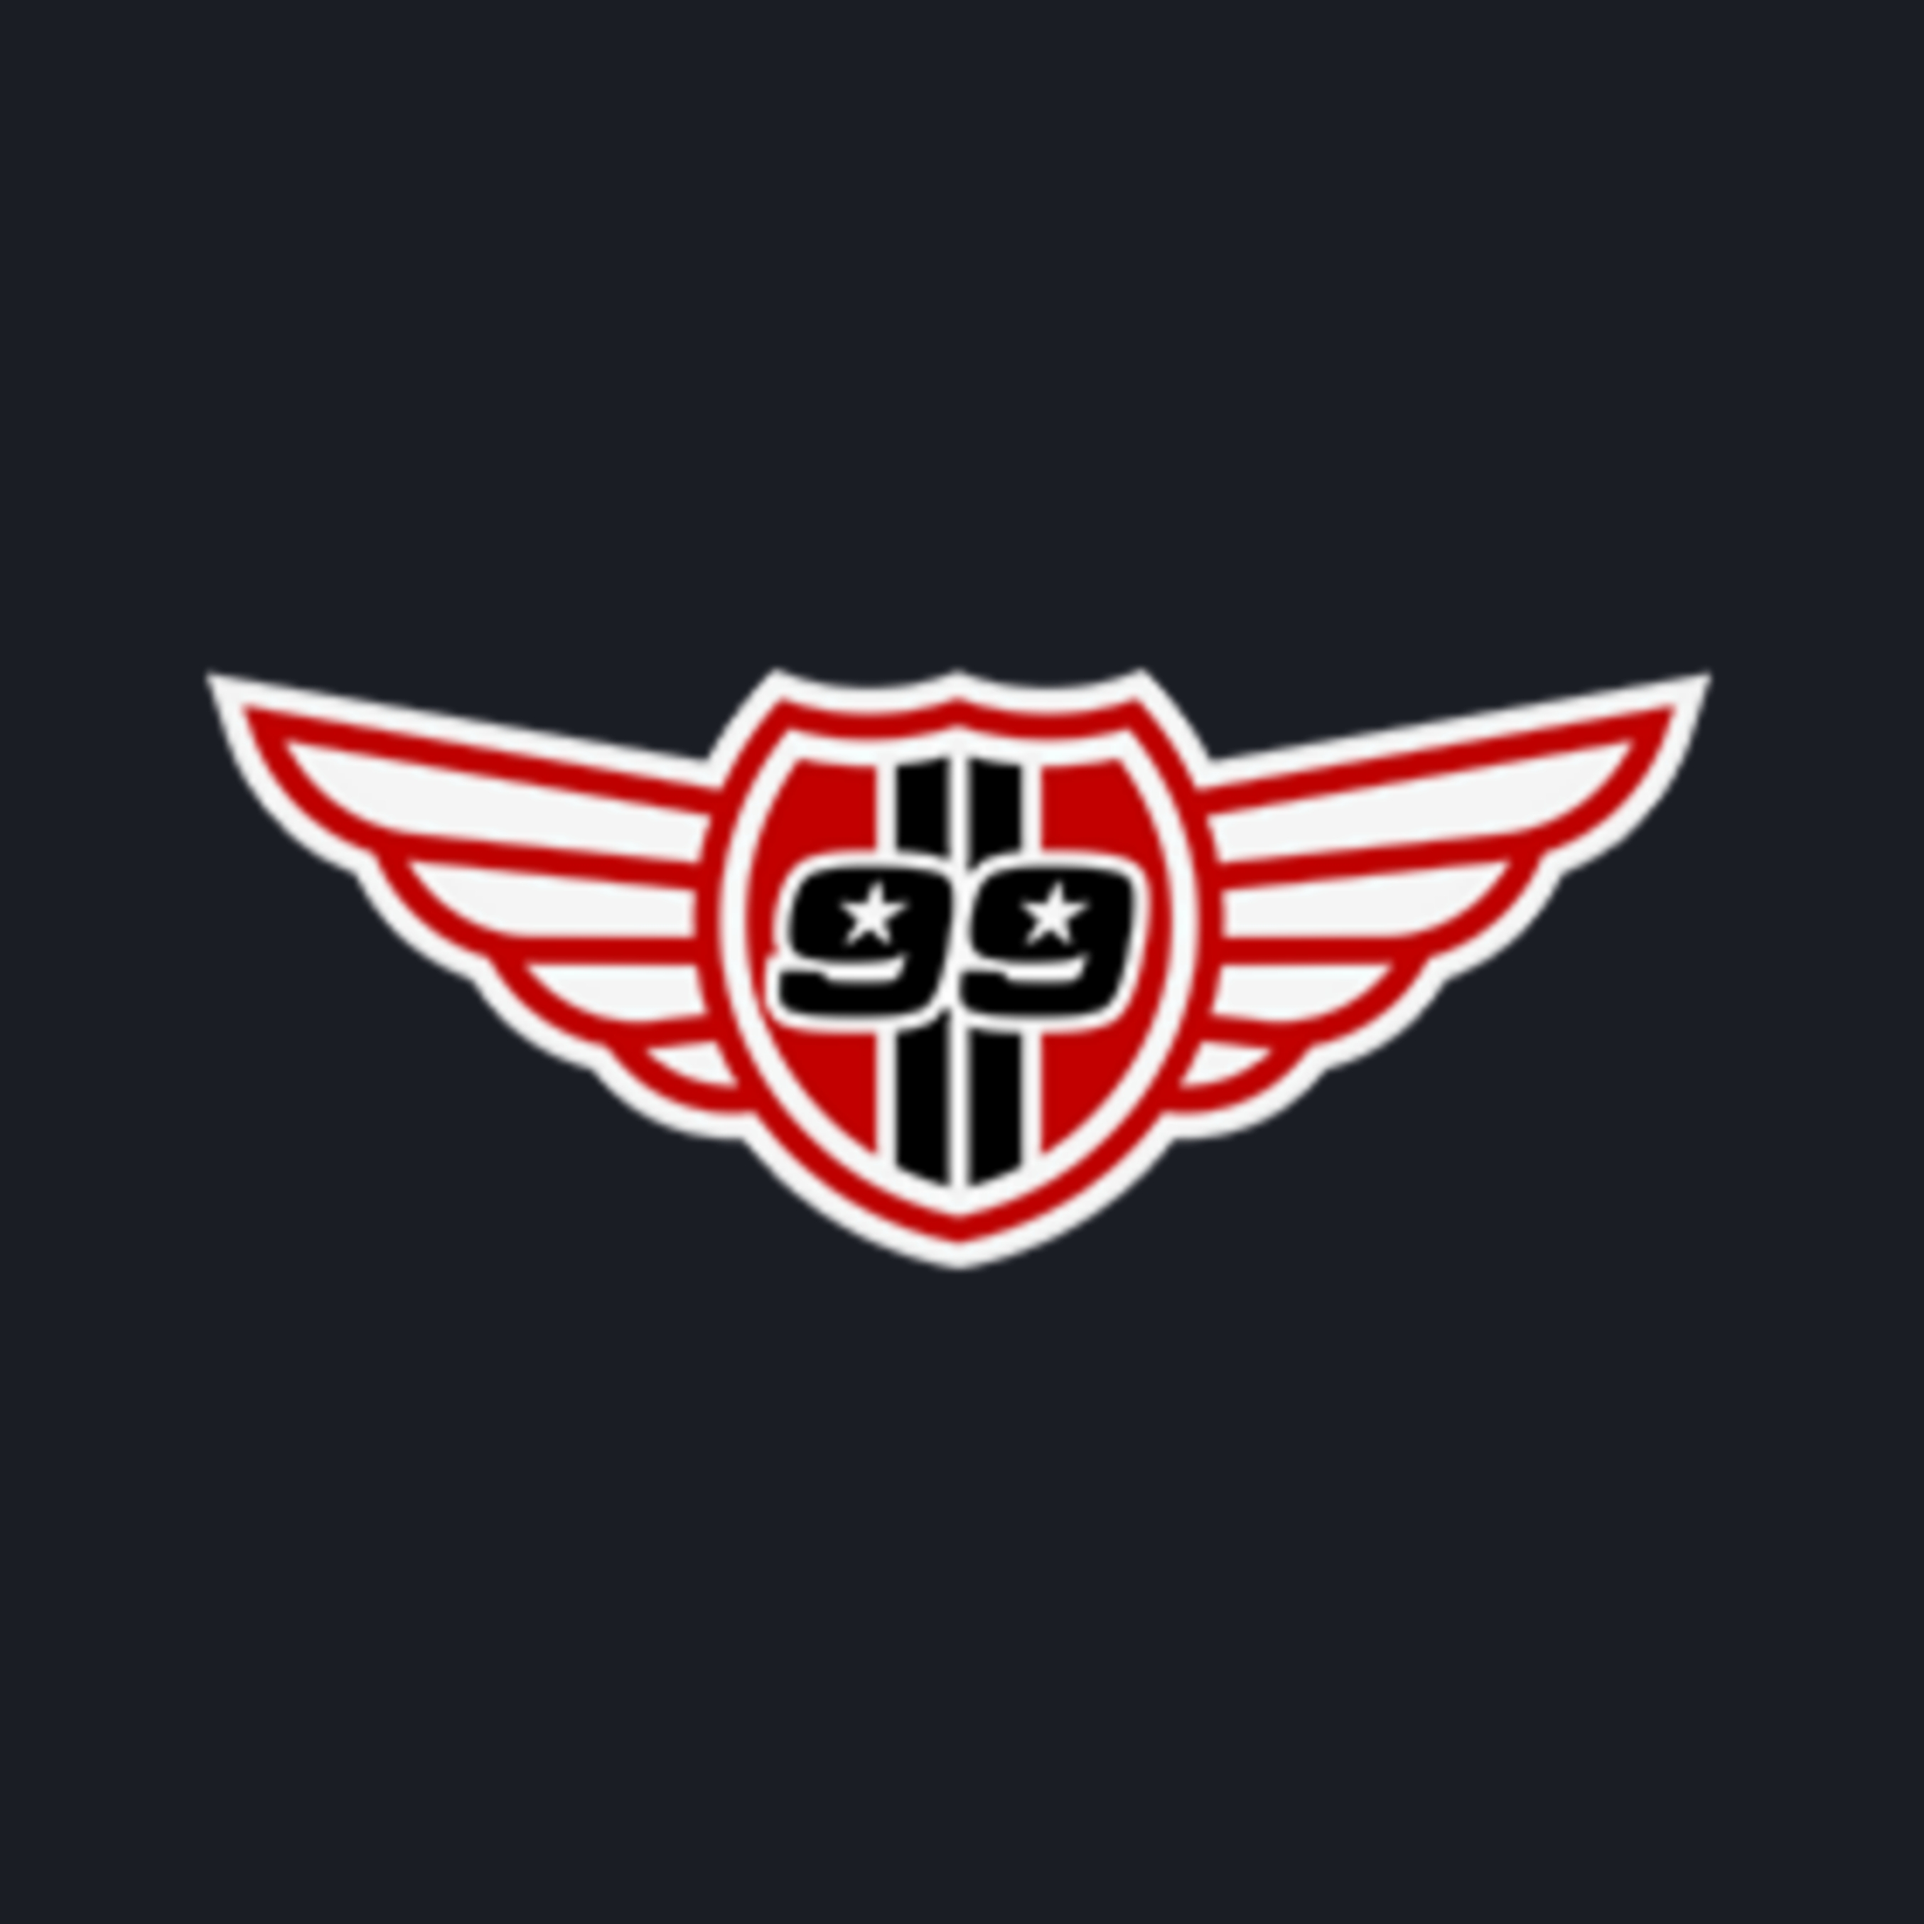
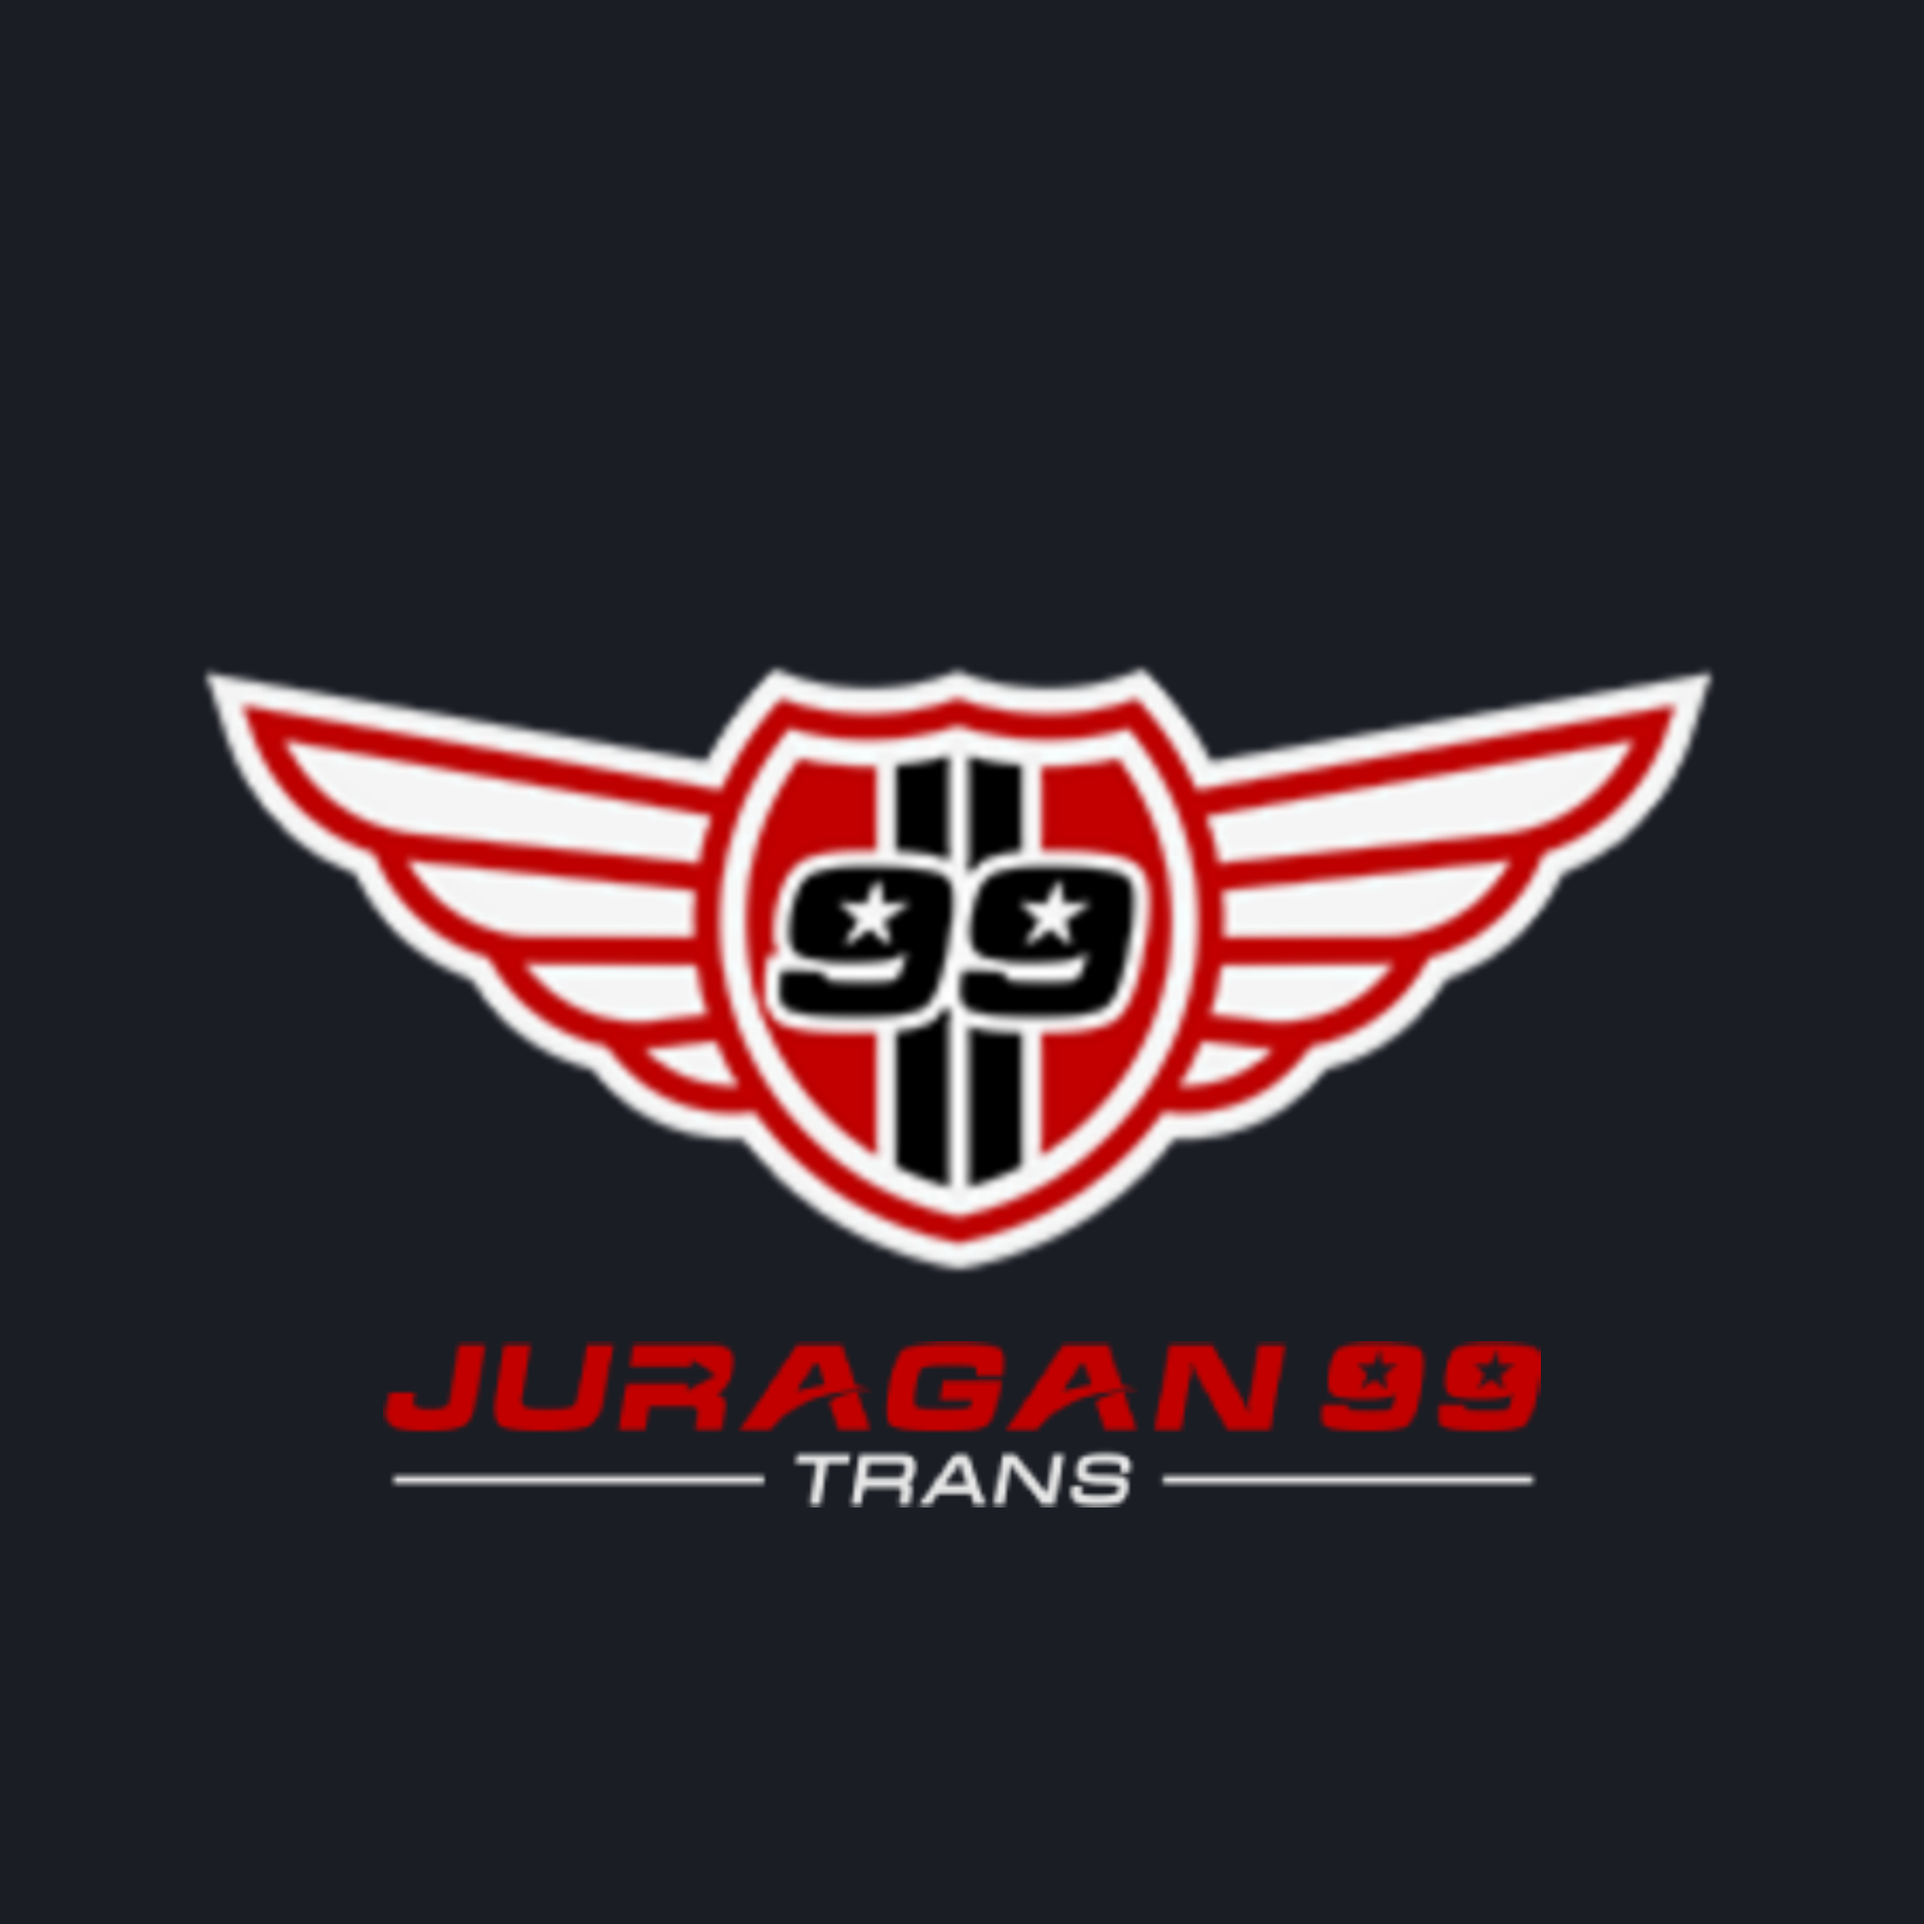
s

Changed region(s): [[0.1862, 0.6827, 0.8068, 0.8068]]

diff --git a/lib/screens/payment_status_screen.dart b/lib/screens/payment_status_screen.dart
@@ -231,28 +231,13 @@ class _PaymentStatusScreen extends State<PaymentStatusScreen> {
                         children: [
                           Column(
                             crossAxisAlignment: CrossAxisAlignment.start,
+                            mainAxisAlignment: MainAxisAlignment.start,
                             children: [
-                              _dataTicketPassanggerLeft(
+                              _dataTicketPassangger(
                                   "No. Tiket: ", ticket.ticket_number),
-                              _dataTicketPassanggerLeft("Nama: ", ticket.name),
-                              _dataTicketPassanggerLeft("Kelas: ", ticket.type),
-                              _dataTicketPassanggerLeft(
-                                  "Keberangkatan: ", ticket.drop_trip_location),
+                              _dataTicketPassangger("Nama: ", ticket.name),
                             ],
                           ),
-                          Column(
-                            crossAxisAlignment: CrossAxisAlignment.end,
-                            children: [
-                              _dataTicketPassanggerRight(
-                                  "No. Kursi: ", ticket.seat_number),
-                              _dataTicketPassanggerRight(
-                                  "Bagasi: ", ticket.baggage),
-                              _dataTicketPassanggerRight(
-                                  "Makanan: ", ticket.food_name),
-                              _dataTicketPassanggerRight(
-                                  "Tujuan", ticket.drop_trip_location),
-                            ],
-                          )
                         ],
                       ),
                     );
@@ -287,46 +272,16 @@ class _PaymentStatusScreen extends State<PaymentStatusScreen> {
     );
   }
 
-  _dataTicketPassanggerLeft(String title, String value) {
+  _dataTicketPassangger(String title, String value) {
     return Padding(
       padding: const EdgeInsets.only(bottom: 5),
-      child: Column(
+      child: Row(
         crossAxisAlignment: CrossAxisAlignment.start,
         children: [
           Text(
             title,
             style: TextStyle(
                 color: Colors.black, fontSize: Dimensions.defaultTextSize),
-          ),
-          Row(
-            mainAxisAlignment: MainAxisAlignment.start,
-            children: [
-              Text(
-                value,
-                style: TextStyle(
-                    color: Colors.black,
-                    fontSize: Dimensions.defaultTextSize,
-                    fontWeight: FontWeight.bold),
-              ),
-            ],
-          ),
-        ],
-      ),
-    );
-  }
-
-  _dataTicketPassanggerRight(String title, String value) {
-    return Padding(
-      padding: const EdgeInsets.only(bottom: 5),
-      child: Column(
-        crossAxisAlignment: CrossAxisAlignment.end,
-        children: [
-          Text(
-            title,
-            style: TextStyle(
-              color: Colors.black,
-              fontSize: Dimensions.defaultTextSize,
-            ),
           ),
           Row(
             mainAxisAlignment: MainAxisAlignment.start,

diff --git a/lib/screens/dashboard/search_ticket_screen.dart b/lib/screens/dashboard/search_ticket_screen.dart
@@ -171,7 +171,9 @@ class _SearchTicketScreenState extends State<SearchTicketScreen> {
                       ? "Belum Dibayar"
                       : (payment_status == "1")
                           ? "Sudah Dibayar"
-                          : "Gagal",
+                          : (payment_status == "2")
+                              ? "Gagal"
+                              : "",
                   style: TextStyle(
                       color: (payment_status == "0")
                           ? CustomColor.darkGrey
@@ -226,31 +228,33 @@ class _SearchTicketScreenState extends State<SearchTicketScreen> {
             ),
             Row(
               children: [
-                GestureDetector(
-                  child: Container(
-                    alignment: Alignment.center,
-                    width: 60,
-                    height: 30,
-                    decoration: BoxDecoration(
-                        color: CustomColor.red,
-                        borderRadius: BorderRadius.circular(6)),
-                    child: Text(
-                      "Cek Tiket",
-                      style: TextStyle(
-                          color: CustomColor.white,
-                          fontSize: Dimensions.smallTextSize),
-                    ),
-                  ),
-                  onTap: () {
-                    Navigator.of(context).push(
-                      MaterialPageRoute(
-                        builder: (context) => TicketResultScreen(
-                          booking_code: booking_code,
+                (payment_status == "2")
+                    ? Container(width: 60, height: 30)
+                    : GestureDetector(
+                        child: Container(
+                          alignment: Alignment.center,
+                          width: 60,
+                          height: 30,
+                          decoration: BoxDecoration(
+                              color: CustomColor.red,
+                              borderRadius: BorderRadius.circular(6)),
+                          child: Text(
+                            "Cek Tiket",
+                            style: TextStyle(
+                                color: CustomColor.white,
+                                fontSize: Dimensions.smallTextSize),
+                          ),
                         ),
-                      ),
-                    );
-                  },
-                )
+                        onTap: () {
+                          Navigator.of(context).push(
+                            MaterialPageRoute(
+                              builder: (context) => TicketResultScreen(
+                                booking_code: booking_code,
+                              ),
+                            ),
+                          );
+                        },
+                      )
               ],
             )
           ],

diff --git a/lib/screens/dashboard/pariwisata_screen.dart b/lib/screens/dashboard/pariwisata_screen.dart
@@ -222,7 +222,11 @@ class _PariwisataScreenState extends State<PariwisataScreen> {
                                     controller: keteranganController,
                                     decoration: InputDecoration(
                                       labelText: "Keterangan",
-                                      contentPadding: EdgeInsets.only(left: 10),
+                                      contentPadding: EdgeInsets.only(
+                                          left: 12,
+                                          top: 20,
+                                          right: 12,
+                                          bottom: 20),
                                       labelStyle: CustomStyle.textStyle,
                                       focusedBorder: CustomStyle.focusBorder,
                                       enabledBorder:

diff --git a/lib/screens/dashboard_screen.dart b/lib/screens/dashboard_screen.dart
@@ -58,7 +58,7 @@ class _DashboardScreenState extends State<DashboardScreen> {
             title: Image.asset(
               'assets/images/j99-logo.png',
               fit: BoxFit.contain,
-              height: 35,
+              width: MediaQuery.of(context).size.width / 2.5,
             ),
             actions: <Widget>[
               Padding(
